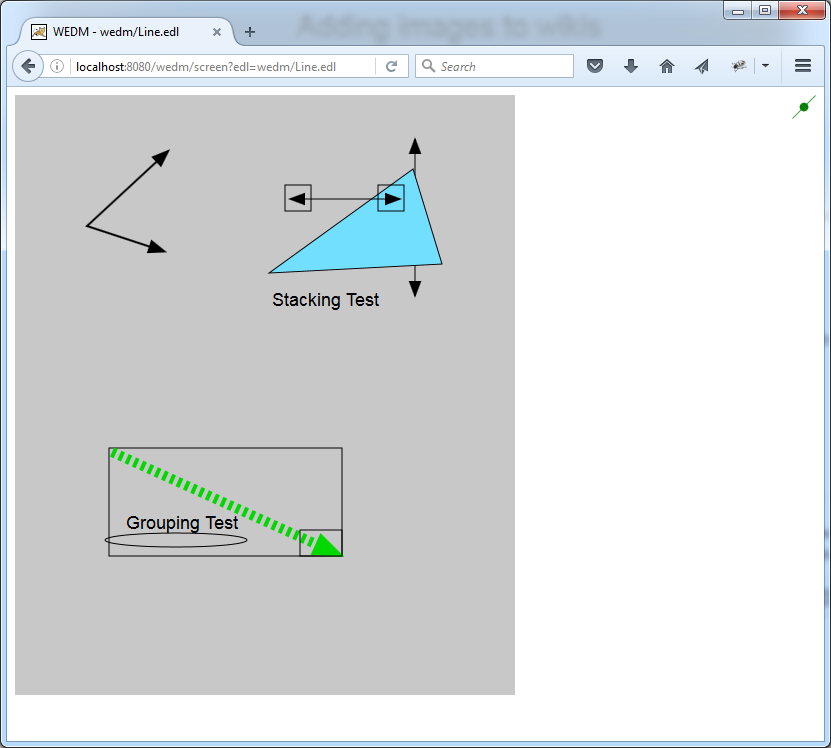
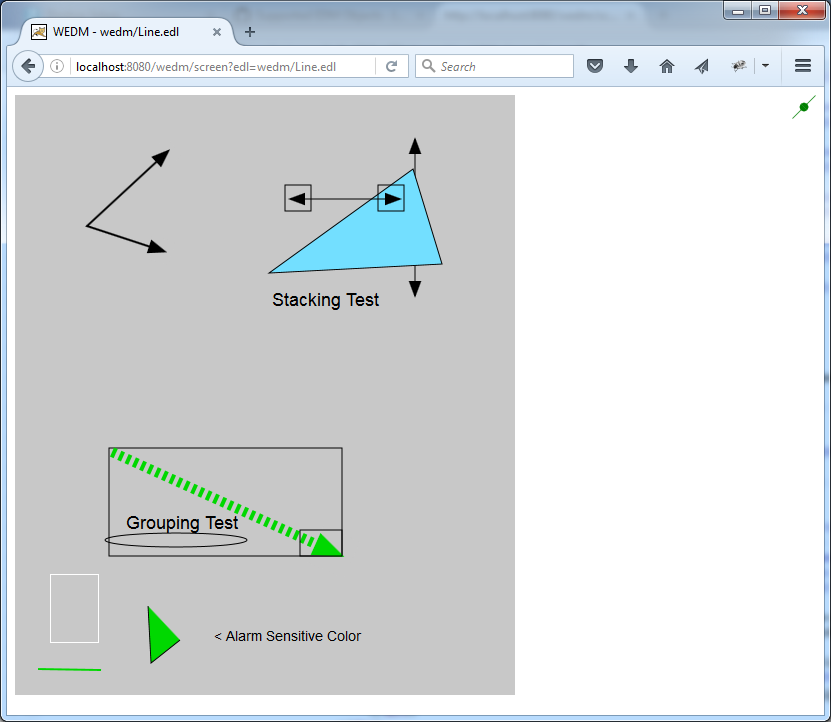
Initial support for alarm sensitive Arc and Line

diff --git a/web/resources/js/screen.js b/web/resources/js/screen.js
@@ -390,7 +390,7 @@ jlab.wedm.ShapePvWidget.prototype.handleInfo = function (info) {
     jlab.wedm.PvWidget.prototype.handleInfo.call(this, info);
 
     var $obj = $("#" + this.id),
-            $shape = $obj.find("rect, ellipse");
+            $shape = $obj.find("rect, ellipse, path");
 
     /*Disconnected Shape always has disconnectedAlarmColor border and transparent fill regardless of fillAlarm or lineAlarm*/
     if (!info.connected) {
@@ -407,7 +407,7 @@ jlab.wedm.ShapePvWidget.prototype.handleAlarmUpdate = function () {
             high = $obj.attr("data-high"),
             low = $obj.attr("data-low"),
             lolo = $obj.attr("data-lolo"),
-            $shape = $obj.find("rect, ellipse"),
+            $shape = $obj.find("rect, ellipse, path"),
             fillAlarm = $obj.attr("data-fill-alarm") === "true",
             lineAlarm = $obj.attr("data-line-alarm") === "true";
 
@@ -621,7 +621,9 @@ $(function () {
             } else if ($obj.attr("class").indexOf("ActiveBarMonitor") > -1) {
                 widget = new jlab.wedm.BarMeterPvWidget(id, pvSet);
             } else if ($obj.attr("class").indexOf("ActiveRectangle") > -1 ||
-                    $obj.attr("class").indexOf("ActiveCircle") > -1) {
+                    $obj.attr("class").indexOf("ActiveCircle") > -1 ||
+                    $obj.attr("class").indexOf("ActiveLine") > -1 ||
+                    $obj.attr("class").indexOf("ActiveArc") > -1) {
                 widget = new jlab.wedm.ShapePvWidget(id, pvSet);
             } else {
                 /*console.log("other widget");*/
